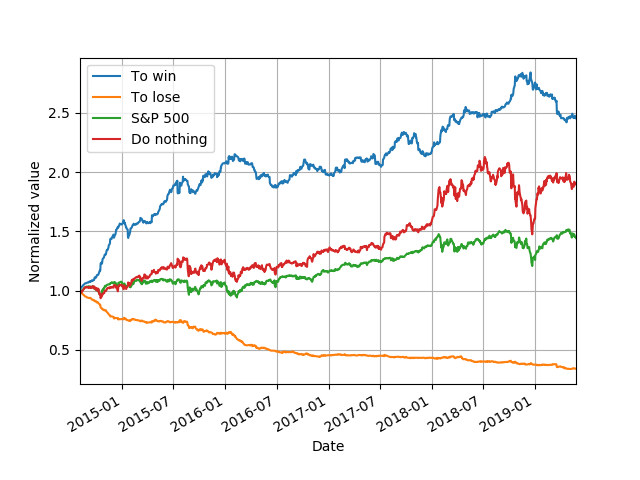
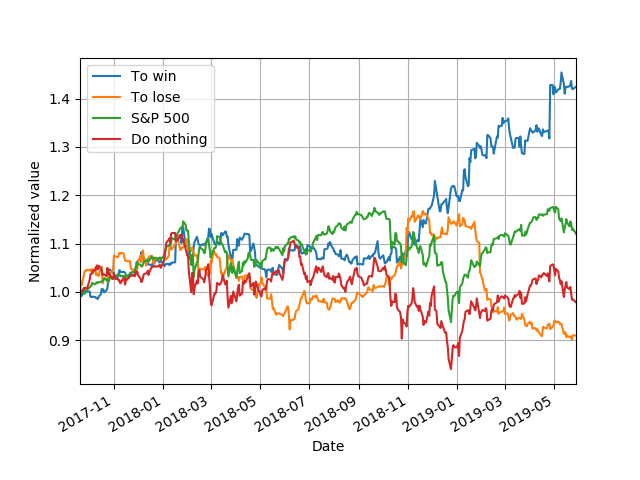
Replaced i_action function with dictionary, updated plotting

diff --git a/Q_trading.py b/Q_trading.py
@@ -16,15 +16,19 @@ from sklearn import decomposition
 
 def get_stock_names():
     #Getting S&P 100 company names from Wikipedia
-    #Modified (2016-01-19) https://adesquared.wordpress.com/2013/06/16/using-python-beautifulsoup-to-scrape-a-wikipedia-table/
+    #Modified (2016-01-19) https://adesquared.wordpress.com/
+    #2013/06/16/using-python-beautifulsoup-to-scrape-a-
+    #wikipedia-table/
     wiki = "https://en.wikipedia.org/wiki/S%26P_100"
-    header = {'User-Agent': 'Mozilla/5.0'} #Needed to prevent 403 error on Wikipedia
+    header = {'User-Agent': 'Mozilla/5.0'} 
+    #Needed to prevent 403 error on Wikipedia
     try:
         req = urllib.request.Request(wiki,headers=header)
         page = urllib.request.urlopen(req)
         soup = BeautifulSoup(page)
         #Finding a table on Wikipedia page
-        table = soup.find("table", { "class" : "wikitable sortable" })
+        table = soup.find("table", 
+                { "class" : "wikitable sortable" })
         #Finding stock names from the table
         stock_name = []
         for row in table.findAll("tr"):
@@ -49,20 +53,18 @@ def get_stock_data(stock_name, start_date, end_date):
         data = data['Close']
         data.to_csv("data/"+stock_name+".csv", header=True)
     #data = data.sort_index()
-    return data
+    return data.loc[start_date:end_date]
 
 def stock_summary(stock_names, start_date, end_date):
     #Creating summary with the stock data
     data = pd.DataFrame()
     for stock_name in stock_names:
         #Get stock data
-        #sdata = get_stock_data(stock_name, start_date, end_date)
-        #sdata.columns = [stock_name]
-        #print(stock_name)
         stock_name = stock_name.replace("\n","")
         if os.path.isfile("data/"+stock_name+".csv"): 
             sdata = pd.read_csv("data/"+stock_name+".csv", index_col=0)
             sdata.index = pd.to_datetime(sdata.index)
+            sdata = sdata.loc[start_date:end_date]
         else:
             sdata = get_stock_data(stock_name, start_date, end_date)
         
@@ -178,6 +180,7 @@ plot, goal, past):
             data = yf.download(stock_name, start_date, end_date)
             data = data['Close']
             data.to_csv("data/"+stock_name+".csv", header=True)
+        data = data.loc[start_date:end_date]
         sdata = pd.concat([sdata, data], axis=1, sort=False) 
     data = sdata
     data=data.fillna(method='ffill',axis=0)
@@ -239,7 +242,6 @@ plot, goal, past):
                 port_value[i] = port_value[i] - yrt[i]*port_value[i]
 
         #Saving portfolio value
-        print(sum(port_value))
         pv.append(sum(port_value))
     H=data.iloc[past:len(data)]
     H['value'] = pv
@@ -312,14 +314,14 @@ def i_state(sharpe, mome, over_ma_h, under_ma_l, state_dict):
     #Return the item from the dictionary
     return state_dict[all]
 
-def i_action( act ):
-    #Fuction converts action into an integer
-    valid_a = ('BUY','SELL','WAIT')
-    i = 0
-    for i1 in valid_a:
-        if i1 == act:
-            return i
-        i = i+1
+#def i_action( act ):
+#    #Fuction converts action into an integer
+#    valid_a = ('BUY','SELL','WAIT')
+#    i = 0
+#    for i1 in valid_a:
+#        if i1 == act:
+#            return i
+#        i = i+1
 
 def create_states():
     #This function converts inputs into unique integer
@@ -348,6 +350,10 @@ def Q_update(Q, state, state0, action0, alpha, gamma, p, yrt, goal):
     #Q-update function
     #Defining valid actions
     v_action = ('BUY','SELL','WAIT')
+    i_action = {}
+    i_action['BUY']=0
+    i_action['SELL']=1
+    i_action['WAIT']=2
     #Taking a random action to improve learning
     if random.random() <= p:
         action = v_action[np.argmax(Q[state, :])]
@@ -356,7 +362,7 @@ def Q_update(Q, state, state0, action0, alpha, gamma, p, yrt, goal):
     #Calculating reward
     reward = get_reward(action, yrt, goal)
     #Updating the Q-matrix with reinforced learning 
-    Q[state0, i_action(action0)] = Q[state0, i_action(action0)] + alpha*(reward + gamma * max(Q[state, :])-Q[state0, i_action(action0)]) 
+    Q[state0, i_action[action0]] = Q[state0, i_action[action0]] + alpha*(reward + gamma * max(Q[state, :])-Q[state0, i_action[action0]]) 
     #Saving parameters for next time
     state0 = state
     action0 = action
@@ -368,11 +374,11 @@ def get_reward(action, yrt, goal):
     if action == 'BUY' and yrt>0:
         reward = 100.
     if action == 'BUY' and yrt<0:
-        reward = -100.
+        reward = -200.
     if action == 'SELL' and yrt<0:
         reward = 100.
     if action == 'SELL' and yrt>0:
-        reward = -100.    
+        reward = -200.    
     if action == 'WAIT' or yrt==0:
         reward = 0.0
     #print(reward)
@@ -381,8 +387,6 @@ def get_reward(action, yrt, goal):
     else:
         return reward
   
-
-
 '''
 The main function of the code is the following:
 1. Get stock names for S&P100 companies
@@ -390,15 +394,8 @@ The main function of the code is the following:
 3. Using clustering, selecting 4 stocks for portfolio
 4. Use Q-learning to do daily trading for the portfolio
 5. Estimate how well the Q-learning worked
-
-*** NOTE ***
-get_stock_data() function uses Quandl API key
-You can get free API key from www.quandl.com which is
-enough to run this code fully. If no API key is provided
-number of stocks will be limited
-*** NOTE ***
-
 '''
+
 if not os.path.exists('data'):
     os.makedirs('data')
 #If you want plots set plot to 1
@@ -407,15 +404,16 @@ plot = 1
 stock_names = get_stock_names()
 #Getting summary information for the stocks
 start_date = '2013-01-01'
-end_date = '2019-05-30'
+end_date = '2015-05-30'
 s_data = stock_summary(stock_names, start_date, end_date)
-past = 400
+past = 180
 #Selecting 4 stocks from the summary with PCA and clustering
-n_stock = 7
+n_stock = 5
 portfolio = cluster(s_data, n_stock, plot)
-#portfolio = ['LOW', 'ALL', 'MSFT', 'AAPL']
+print("Selected stocks: ")
+print(portfolio)
 start_train_date = '2013-01-01'
-start_test_date = '2017-12-31'
+start_test_date = '2016-12-31'
 end_date = '2019-05-30'
 #Launch Q-learning agent to manage your portfolio
 investment = 100000 #For example in Euro or Dollar
@@ -442,20 +440,16 @@ if plot == 1:
     pv.plot(title='Q-learning testing', figsize=(10, 6))
     plt.grid()
     plt.ylabel('Value [Euro]')
-    #plt.tight_layout()
-    #plt.show()
     plt.savefig("Value.png")
     #Reference to S&P 500
-    ref_data = get_stock_data('SPY',start_train_date,end_date)
-    #ref_data = ref_data['Close']
+    ref_data = get_stock_data('SPY',start_test_date,end_date)
     hmm=pd.concat([pv,ref_data],axis=1)
+    hmm = hmm.loc[start_test_date:end_date]
     hmm=hmm.iloc[past:-1]/hmm.iloc[past] #Normalise and limit to use range
     #Do nothing data
     temp = pd.DataFrame()
     for stock_name in portfolio:
-        donoth = get_stock_data(stock_name, start_train_date, end_date)
-        #data = get_stock_data(sname, start_train_date, end_date)
-        #donoth = donoth['Close']
+        donoth = get_stock_data(stock_name, start_test_date, end_date)
         temp = pd.concat([temp, donoth], axis=1, sort=False)
     donoth=temp
     donoth=donoth.iloc[past:-1]/donoth.iloc[past]
@@ -466,8 +460,6 @@ if plot == 1:
     hmm.plot()
     plt.grid()
     plt.ylabel('Normalized value')
-    #plt.tight_layout()
-    #plt.show()
     plt.savefig("Result.png")
 print('Done.')
  
